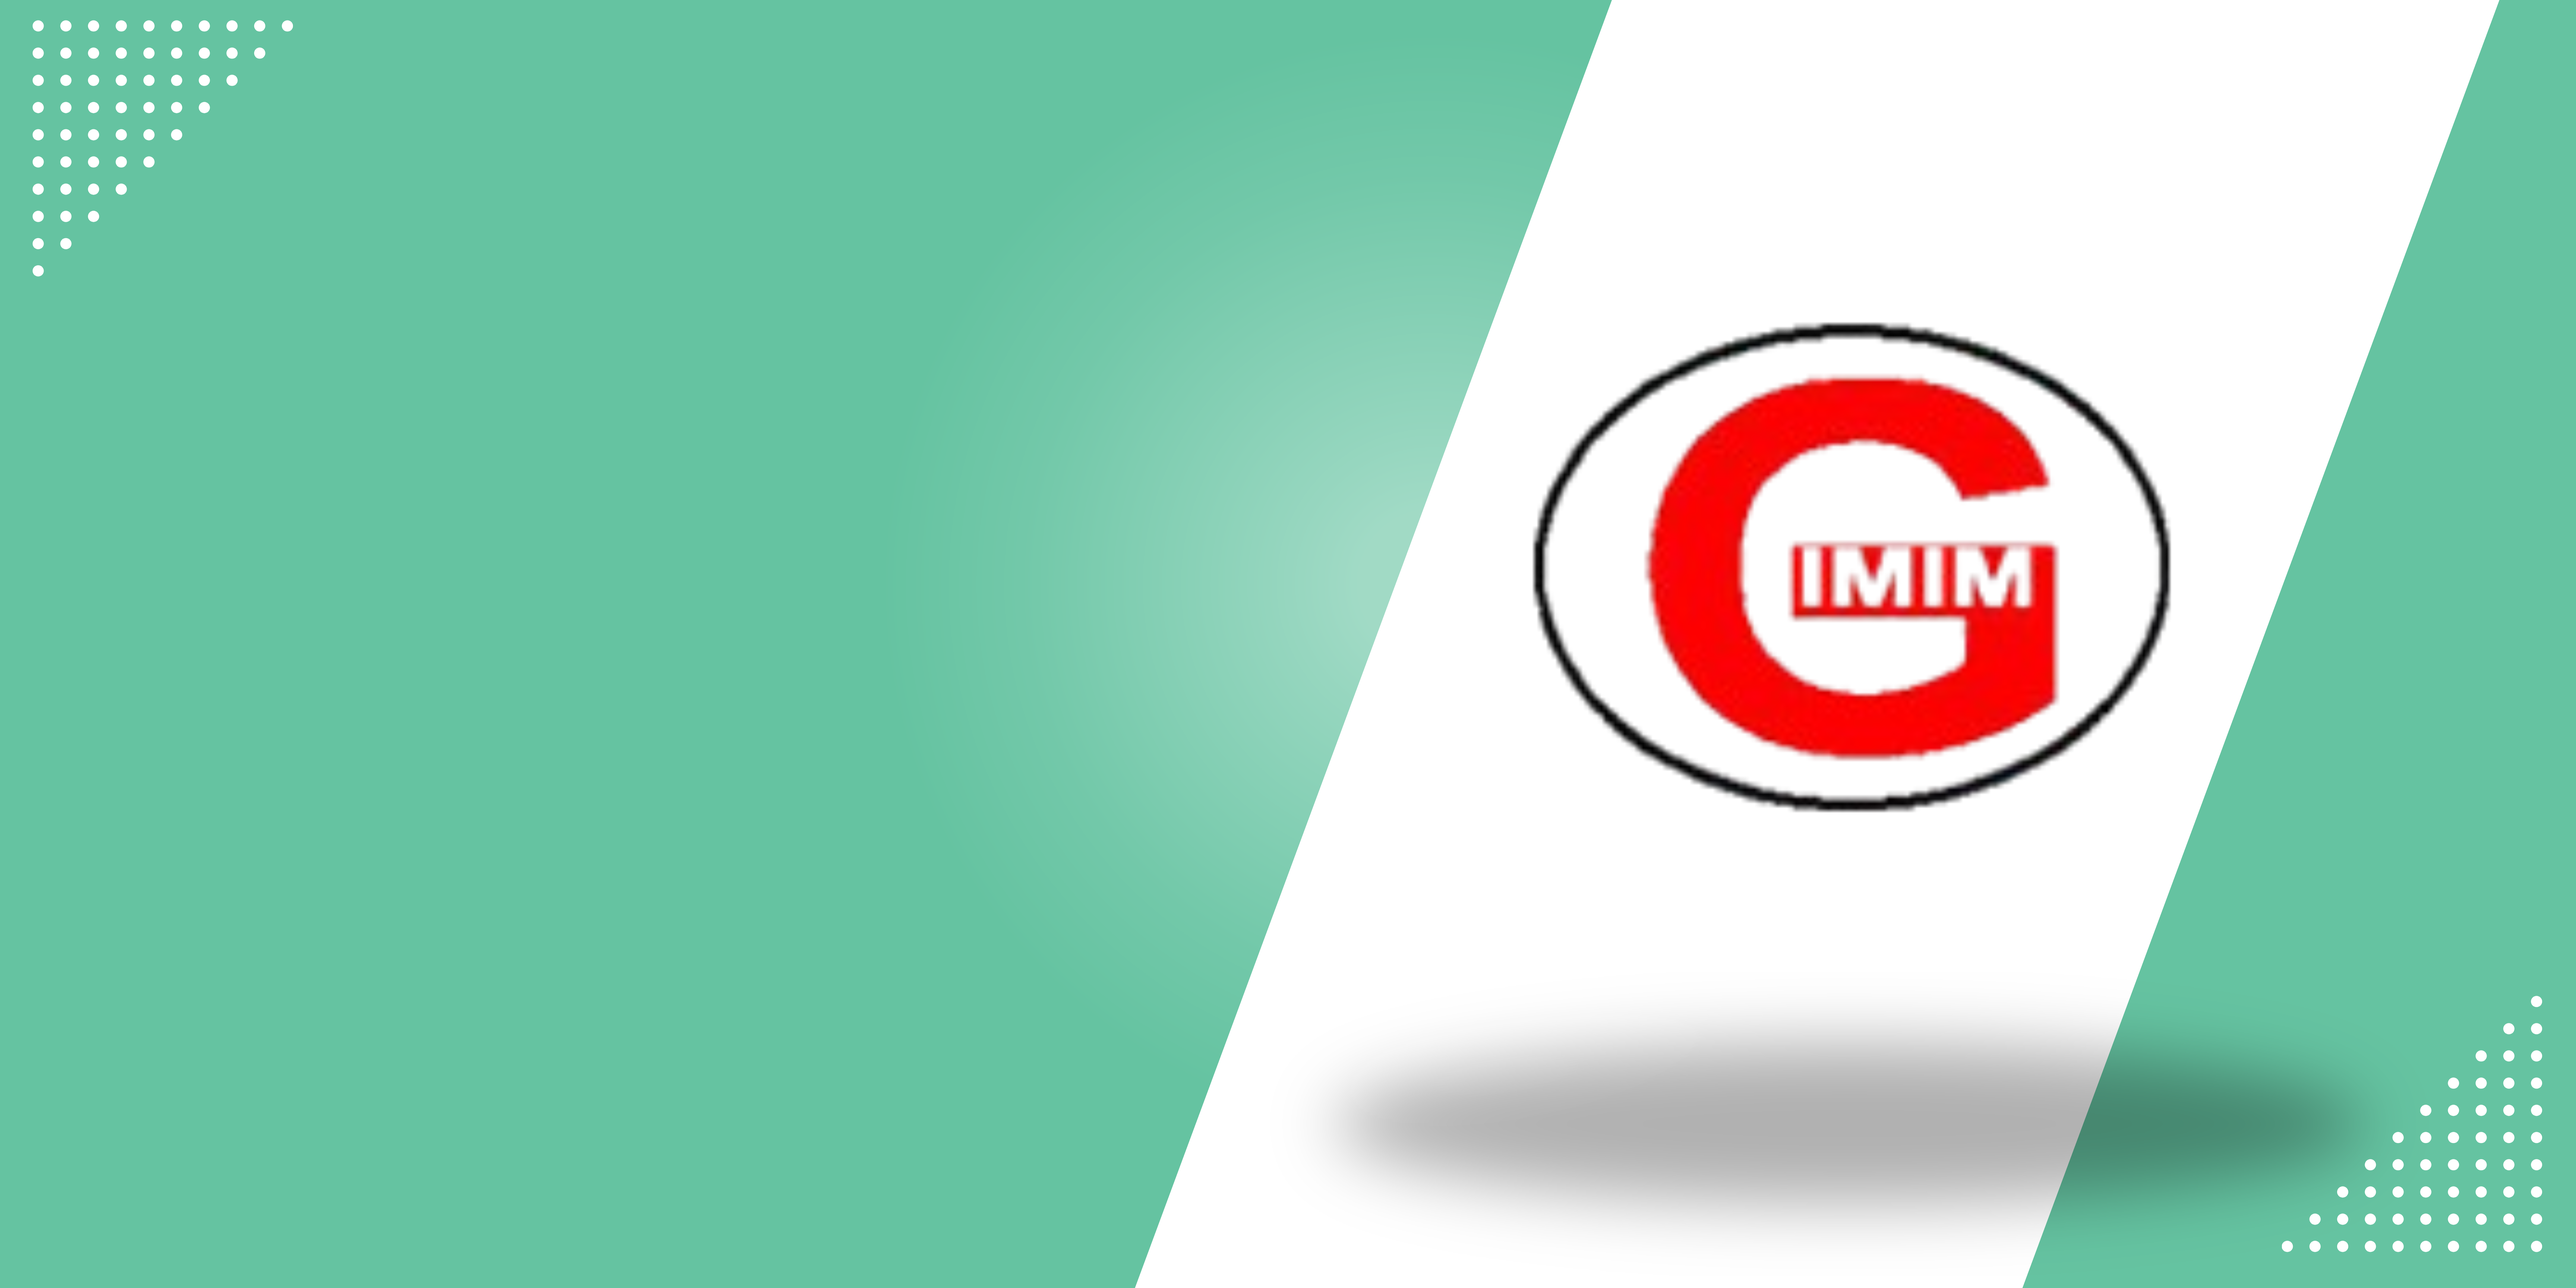
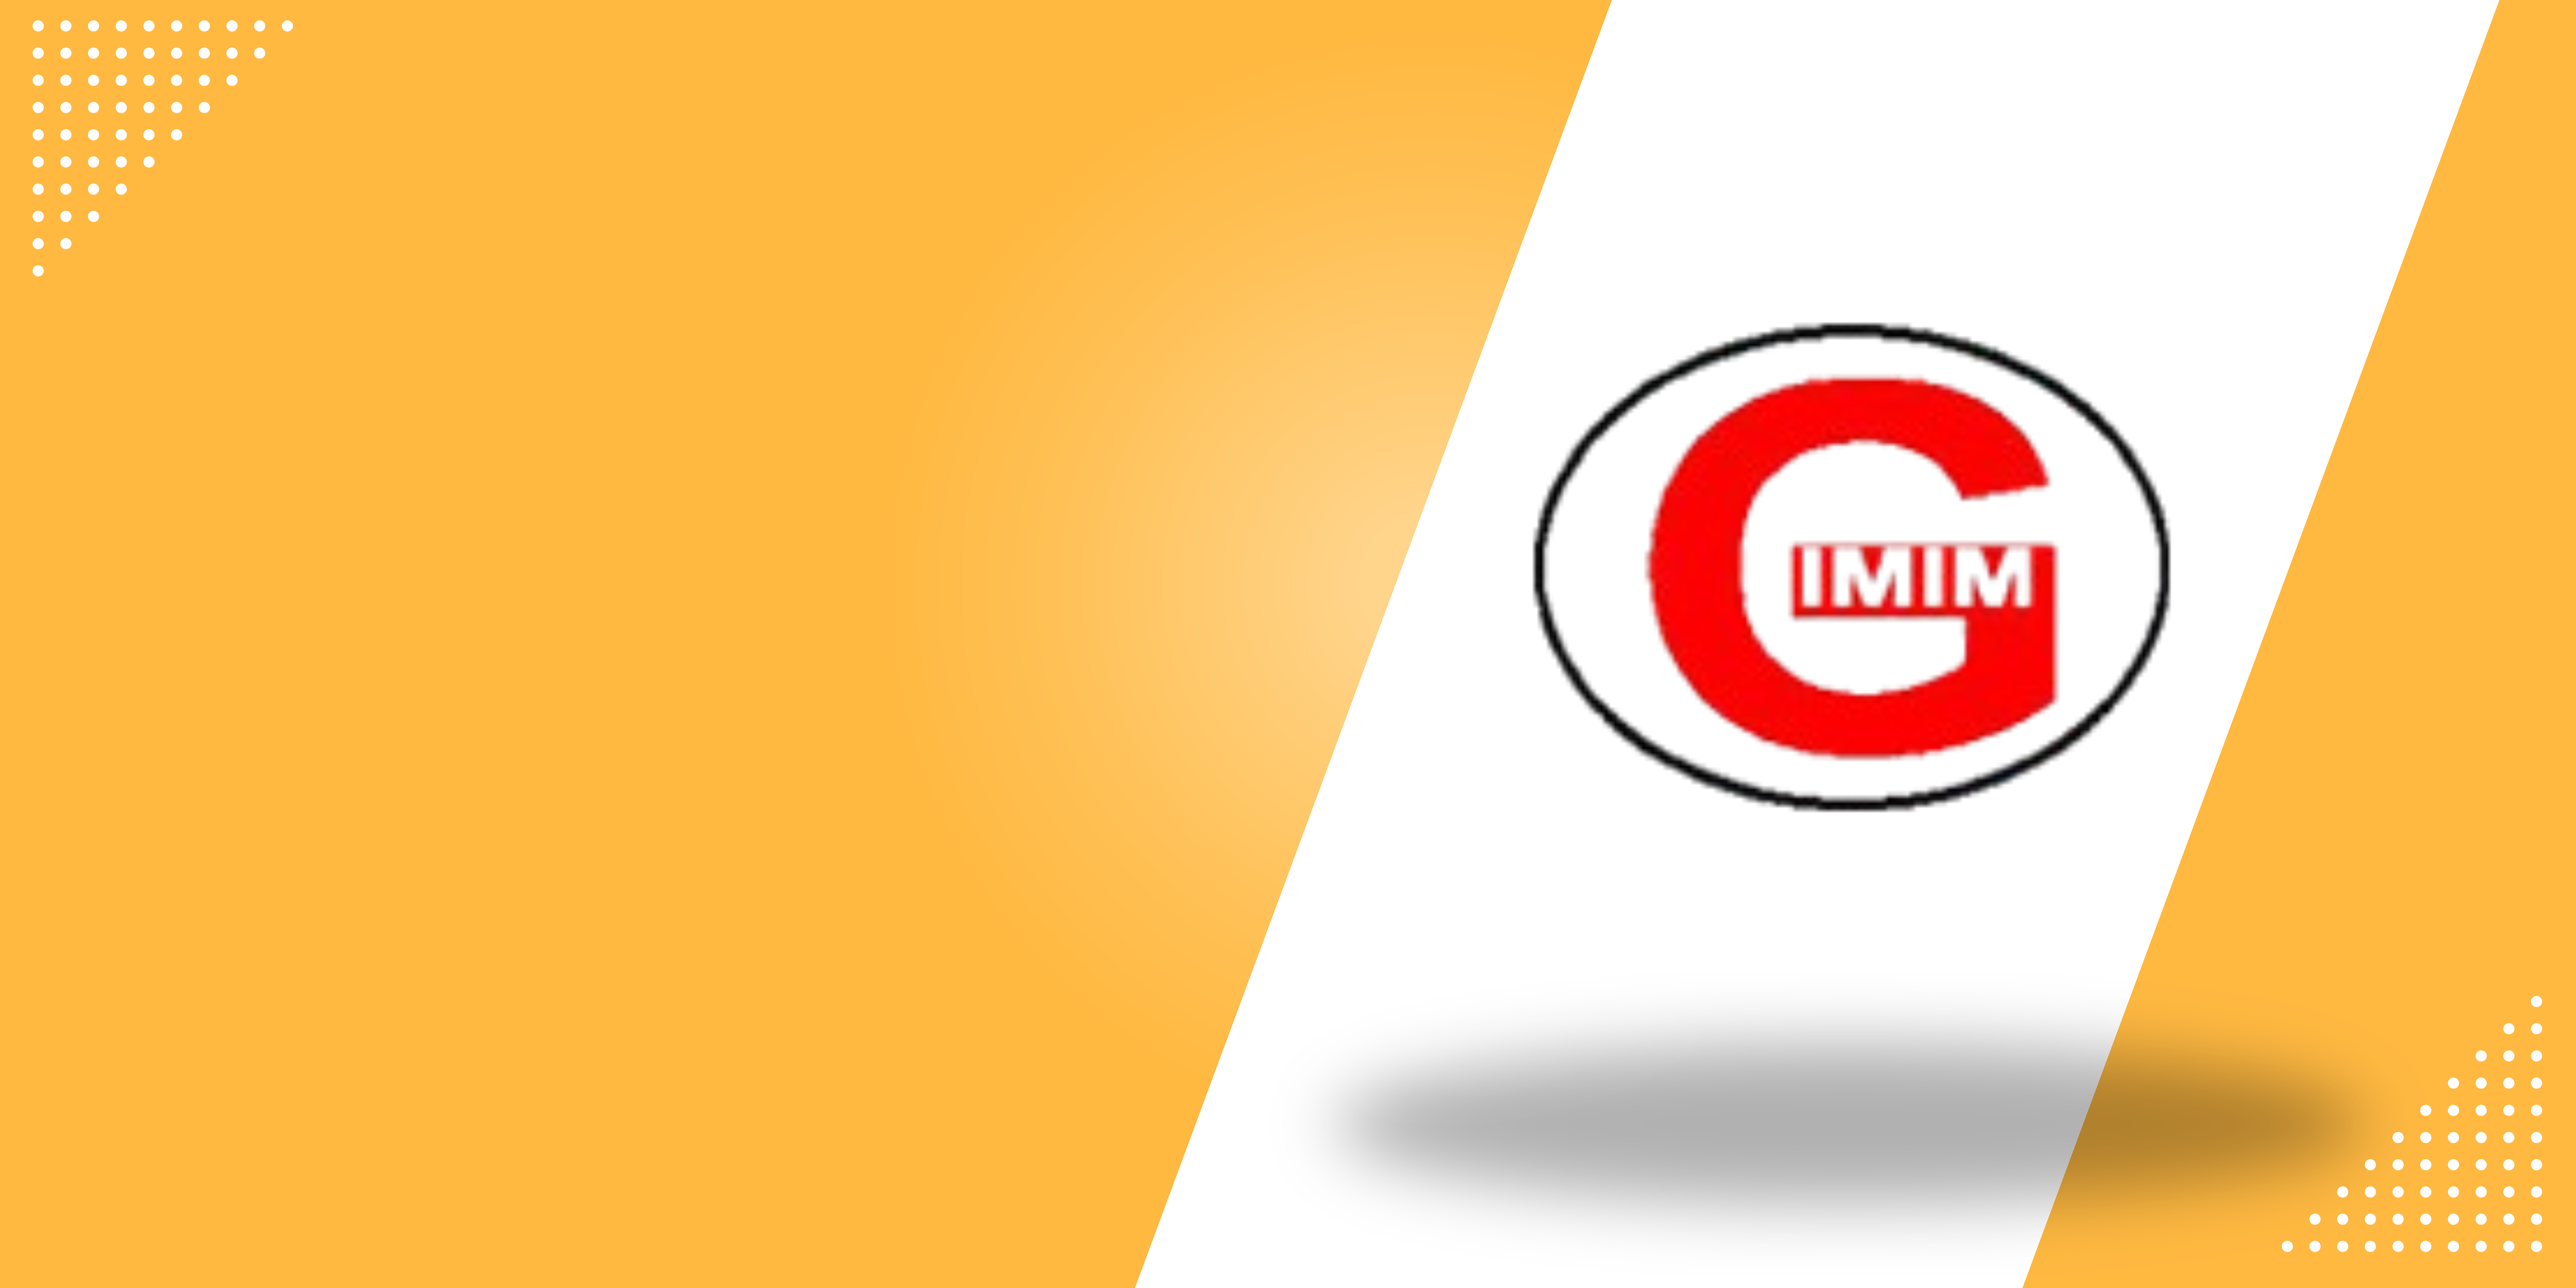
add initial setup of dashboard

diff --git a/src/Components/Navbar.jsx b/src/Components/Navbar.jsx
@@ -16,13 +16,13 @@ const Navbar = () => {
   }
    
 const links=<>
-<NavLink to={'/'}><span className='flex items-center gap-2 hover:text-[#65C3A1]    p-2'> <IoMdHome className='text-xl'/>Home</span></NavLink>
-<NavLink to={'/allProduct'}><span className='flex items-center gap-2 hover:text-[#65C3A1]  p-2 '> <FaBoxes className='text-xl'/>All Product</span></NavLink>
-<NavLink to={'/aboutUs'}><span className='flex items-center gap-2 hover:text-[#65C3A1]  p-2  '><MdInfo className='text-xl'/>About Us</span></NavLink>
-<NavLink to={'/contact'}><span className='flex items-center gap-2 hover:text-[#65C3A1]  p-2'> <FaHeadset className='text-xl'/>Contact</span></NavLink>
+<NavLink to={'/'}><span className='flex items-center gap-2 hover:text-[#a07032b4]    p-2'> <IoMdHome className='text-xl'/>Home</span></NavLink>
+<NavLink to={'/allProduct'}><span className='flex items-center gap-2 hover:text-[#a07032b4]  p-2 '> <FaBoxes className='text-xl'/>All Product</span></NavLink>
+<NavLink to={'/aboutUs'}><span className='flex items-center gap-2 hover:text-[#a07032b4]  p-2  '><MdInfo className='text-xl'/>About Us</span></NavLink>
+<NavLink to={'/contact'}><span className='flex items-center gap-2 hover:text-[#a07032b4]  p-2'> <FaHeadset className='text-xl'/>Contact</span></NavLink>
 </>
     return (
-        <div className="navbar max-w-7xl mx-auto  shadow-sm">
+        <div className="navbar  max-w-7xl mx-auto  shadow-xl">
         <div className="navbar-start">
           <div className="dropdown">
             <div tabIndex={0} role="button" className="btn btn-ghost lg:hidden">
@@ -59,7 +59,7 @@ const links=<>
                   tabIndex={0}
                   className="menu menu-sm dropdown-content bg-base-100 rounded-box z-1 mt-3 w-52 p-2 shadow">
                 
-                  <li><a>Settings</a></li>
+                  <li><Link to={'/dashboard'}>Dashboard</Link></li>
                   <li><a onClick={handleLogout}> Logout</a></li>
                 </ul>
               </div>:     <Link to={'/login'}><button className="btn glass primary">Login</button></Link>

diff --git a/src/page/Signup/Signup.jsx b/src/page/Signup/Signup.jsx
@@ -37,22 +37,22 @@ const {
         backgroundRepeat:'no-repeat'
         }}>
                  <div  className='flex md:flex-row flex-col justify-between md:gap-24 gap-10 md:p-10 items-center'>
-<div>
-<h3 className='text-3xl text-green-950 text-center'>Create Account & enjoy more features</h3>
-<p className='text-green-600 italic text-center'>Your trusted source for industrial-strength adhesives.</p>
+<div className='w-1/2'>
+<h3 className='text-3xl  text-center'>Create Account & enjoy more features</h3>
+<p className=' italic text-center'>Your trusted source for industrial-strength adhesives.</p>
 </div>
 
 
-            <form onSubmit={handleSubmit(onSubmit)} className="fieldset relative bg-opacity-50 flex-1 backdrop-blur-3xl bg-white border border-base-200 p-4 rounded-box">
+            <form onSubmit={handleSubmit(onSubmit)} className="fieldset w-1/2 relative bg-opacity-50  backdrop-blur-3xl bg-white border border-base-200 p-4  rounded-box">
   <legend className="fieldset-legend ">signup</legend>
   
   <label className="fieldset-label">Name</label>
-  <input {...register('name')} type="text" className="input" placeholder="Name" />
+  <input {...register('name')} type="text" className="input  w-full" placeholder="Name" />
   <label className="fieldset-label">Email</label>
-  <input {...register('email')} type="email" className="input" placeholder="Email" />
+  <input {...register('email')} type="email" className="input  w-full" placeholder="Email" />
   
   <label className="fieldset-label">Password</label>
-  <input {...register('password')} type={showPass?'text':'password'} className="input" placeholder="Password" />
+  <input {...register('password')} type={showPass?'text':'password'} className="input  w-full" placeholder="Password" />
   <p onClick={()=>setShowPass(!showPass)} className='absolute bottom-[230px] right-8'>
 
   {

diff --git a/src/Layout/Dashboard.jsx b/src/Layout/Dashboard.jsx
@@ -1,0 +1,54 @@
+import { useState } from "react";
+import { HiMenu, HiX } from "react-icons/hi";
+import { NavLink } from "react-router-dom";
+
+const Dashboard = () => {
+  const [isOpen, setIsOpen] = useState(false);
+
+
+  const toggleMenu = () => setIsOpen(!isOpen);
+
+
+  const closeMenu = (e) => {
+    if (!e.target.closest(".dashboard-menu")) {
+      setIsOpen(false);
+    }
+  };
+
+  return (
+    <div className="grid grid-cols-12 min-h-screen">
+   
+      <button 
+        className={`lg:hidden absolute top-0  ${isOpen?'left-52':'left-0'} z-50 p-2 primary text-white rounded-md`}
+        onClick={toggleMenu}
+      >
+        {isOpen ? <HiX size={24} /> : <HiMenu size={24} />}
+      </button>
+
+      {/* Sidebar */}
+      <aside
+        className={`dashboard-menu primary text-white p-5 min-h-screen 
+        lg:col-span-3 lg:block 
+        ${isOpen ? "fixed top-0 left-0 w-64 h-full shadow-lg" : "hidden"}
+        transition-all duration-300`}
+        onClick={closeMenu}
+      >
+        <div className="flex flex-col mt-5 space-y-2">
+          <NavLink to="/" className="p-2 rounded hover:bg-gray-700">Home</NavLink>
+          <NavLink to="/dashboard" className="p-2 rounded hover:bg-gray-700">Dashboard</NavLink>
+          <NavLink to="/settings" className="p-2 rounded hover:bg-gray-700">Settings</NavLink>
+          <NavLink to="/profile" className="p-2 rounded hover:bg-gray-700">Profile</NavLink>
+        </div>
+      </aside>
+
+      {/* Main Content */}
+      <section className="col-span-12 lg:col-span-9 p-10">
+        <p>
+          Lorem ipsum dolor sit amet consectetur adipisicing elit. Dolorum eius nobis repellat iusto earum delectus, esse eveniet soluta nihil sunt blanditiis repellendus cum hic adipisci repudiandae! 
+        </p>
+      </section>
+    </div>
+  );
+};
+
+export default Dashboard;

diff --git a/src/index.css b/src/index.css
@@ -9,23 +9,24 @@ body{
     font-family: "Poppins", serif;
     padding: 0;
     margin: 0;
-    background-color:#ECF8F3;
+    background-color:#FFFFFF;
     overflow-x: hidden;
+    color: #2E2E2E;
 }
 .nav-title{
   font-family: "Lobster", sans-serif;
 }
 .primary{
-  background-color: #3EB489;
+  background-color: #FF9F1C;
 }
 .secondary{
-  background-color:#65C3A1 ;
+  background-color:#CBF3F0 ;
 }
 .accent{
-  background-color: #8BD2B8;
+  background-color: #FFB941;
 }
 .card{
-  background-color: #C5E8DC;
+  background-color: #CBF3F0;
 }
 
 h1, h2, h3 {
@@ -39,27 +40,3 @@ a.active{
 
 
 
-/* 
-
-*/
-/* {
-  color: #ECF8F3;
-  color: #C5E8DC;
-  color: #B2E1D0;
-  color: #8BD2B8;
-  color: #65C3A1;
-  color: #3EB489;
-} */
-/* Color Role Assignments:
-Primary Color: #3EB489 (A bold green that stands out for buttons, CTAs, and key highlights)
-Secondary Color: #65C3A1 (A lighter complement for hover effects, secondary buttons, or minor highlights)
-Background Color: #ECF8F3 (A soft, clean background that makes content easy to read)
-Card / Section Background: #C5E8DC (A slight contrast for sections or cards)
-Accent Color: #8BD2B8 (For subtle highlights like icons, borders, or progress bars)
-Text Color: Dark gray or deep green for good readability against light backgrounds
-Where to Use These Colors?
-Navbar & CTA Buttons: #3EB489 (strong & engaging)
-Hover Effects: #65C3A1 (a nice, smooth transition)
-Page Background: #ECF8F3 (keeping it fresh & clean)
-Cards & Sections: #C5E8DC (to separate content areas without being too harsh)
-Accent Elements: #8BD2B8 (like underlines, borders, or small decorative elements) */

diff --git a/src/page/home/PopularProduct/PopularProduct.jsx b/src/page/home/PopularProduct/PopularProduct.jsx
@@ -1,0 +1,25 @@
+import img1 from '../../../assets/product1.png'
+import img2 from '../../../assets/product2.png'
+import img3 from '../../../assets/product3.png'
+import img4 from '../../../assets/product4.png'
+import img5 from '../../../assets/product5.png'
+import img6 from '../../../assets/product6.png'
+
+const PopularProduct = () => {
+    return (
+        <div className='max-w-7xl mx-auto  my-20'>
+            <h3 className="text-3xl  text-center text-gray-800 mb-10">Most Popular Products</h3>
+            <div className="grid lg:grid-cols-3 md:grid-cols-2 gap-5 place-items-center">
+  {[img1, img2, img3, img4, img5, img6].map((img, index) => (
+    <div key={index} className="w-64 h-64 flex items-center justify-center rounded-full secondary p-2">
+      <img className="rounded-full w-full h-full object-cover" src={img} alt={`Image ${index + 1}`} />
+    </div>
+  ))}
+</div>
+
+
+        </div>
+    );
+};
+
+export default PopularProduct;

diff --git a/src/page/home/Banner/Banner.jsx b/src/page/home/Banner/Banner.jsx
@@ -1,19 +1,21 @@
 
 import bannerImg from '../../../assets/banner.png'
 
+
 const Banner = () => {
   
     return (
 <div className='relative'>
     <img src={bannerImg}  />
-
+<div className='bg-black/10 inset-0 absolute '></div>
 <div className='absolute md:top-40 top-10'>
-<h3 className='md:text-3xl text-2xl p-2  text-green-950'>GIMIM CORPORATION</h3>
-<p className='text-green-900 p-2 w-1/2 '>Premium Super Glue at Wholesale Prices – Strong, Reliable, and Affordable! "
+<h3 className='md:text-3xl text-2xl p-2  '>GIMIM CORPORATION</h3>
+<p className=' p-2 w-1/2 '>Premium Super Glue at Wholesale Prices – Strong, Reliable, and Affordable! "
  </p>
 
 
 </div>
+
 </div>
     );
 };

diff --git a/src/page/Login/Login.jsx b/src/page/Login/Login.jsx
@@ -32,8 +32,8 @@ loginWithEmail(email,password)
         }}>
             <div  className='flex md:flex-row flex-col justify-between md:gap-24 gap-10 md:p-10 items-center'>
 <div>
-<h3 className='text-3xl text-green-950 text-center'>Stick With Us – Log In Now!</h3>
-<p className='text-green-600 italic text-center'>Your trusted source for industrial-strength adhesives.</p>
+<h3 className='text-3xl  text-center'>Stick With Us – Log In Now!</h3>
+<p className=' italic text-center'>Your trusted source for industrial-strength adhesives.</p>
 </div>
 
 

diff --git a/src/Route/router.jsx b/src/Route/router.jsx
@@ -1,3 +1,4 @@
+import Dashboard from "@/Layout/Dashboard";
 import Main from "@/Layout/Main";
 import AboutUs from "@/page/AboutUs/AboutUs";
 import AllProduct from "@/page/AllProduct/AllProduct";
@@ -40,6 +41,14 @@ const router = createBrowserRouter([
                 path:'/signup',
                 element:<Signup></Signup>
             }
+        ])
+    },
+    // dashboard
+    {
+        path:'/dashboard',
+        element:<Dashboard></Dashboard>,
+        children:([
+            
         ])
     }
 ])

diff --git a/src/page/home/Home/Home.jsx b/src/page/home/Home/Home.jsx
@@ -1,10 +1,13 @@
 import React from 'react';
 import Banner from '../Banner/Banner';
+import PopularProduct from '../PopularProduct/PopularProduct';
+
 
 const Home = () => {
     return (
         <div>
         <Banner></Banner>
+      <PopularProduct></PopularProduct>
         </div>
     );
 };

diff --git a/src/Layout/Main.jsx b/src/Layout/Main.jsx
@@ -5,7 +5,7 @@ import { Outlet } from "react-router-dom";
 const Main = () => {
     return (
         <div>
-        <header className="bg-[#3EB489]">
+        <header className="primary">
             <Navbar></Navbar>
         </header>
       <main>
